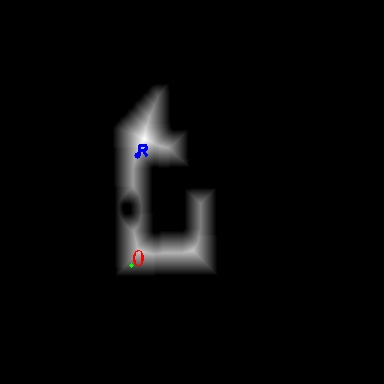
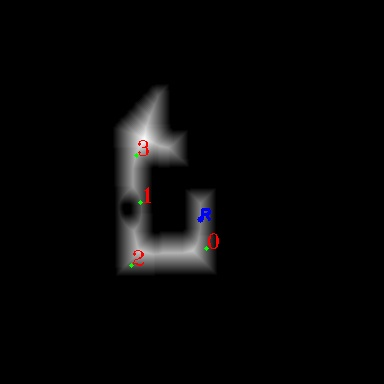
update

diff --git a/turtlebot3_67301/scripts/assignment_2.py b/turtlebot3_67301/scripts/assignment_2.py
@@ -12,7 +12,7 @@ import actionlib
 import json
 
 from move_base_msgs.msg import MoveBaseAction, MoveBaseGoal
-from nav_msgs.srv import GetMap
+from nav_msgs.srv import GetMap, GetPlan
 from nav_msgs.msg import Odometry, Path
 from std_msgs.msg import String
 from tf.transformations import euler_from_quaternion
@@ -185,7 +185,6 @@ def move(client, goal, degree, convert_to_map_coords=False):
     goal.target_pose.pose.orientation.y = 0
     goal.target_pose.pose.orientation.z = z
     goal.target_pose.pose.orientation.w = w
-
     client.send_goal(goal)
     wait = client.wait_for_result(rospy.Duration(60))
 
@@ -195,26 +194,28 @@ def move(client, goal, degree, convert_to_map_coords=False):
 #############################  C & C
 
 def get_agent_plan(start, end, agent_id=0):
+    rospy.loginfo('agent {} waiting for move_base/make_plan service...'.format(agent_id))
+    rospy.wait_for_service('/tb3_%d/move_base/make_plan' % agent_id, 30)
     get_plan = rospy.ServiceProxy('/tb3_%d/move_base/make_plan' % agent_id, GetPlan)
+    rospy.loginfo('agent {} got for move_base/make_plan service.'.format(agent_id))
     plan = GetPlan()
-    plan.start = my_start
-    plan.goal = item_goal
+    plan.start = start
+    plan.goal = end
     plan.tolerance = .5
-    res = get_plan(req.start, req.goal, req.tolerance)
-    print(plan)
+    res = get_plan(plan.start, plan.goal, plan.tolerance)
     myPath = len(res.plan.poses)
     return res.plan
 
-def get_pose_stamped(seq, frame_id, stamp, x, y)
+def get_pose_stamped(seq, frame_id, stamp, x, y):
     pose = PoseStamped()
-    pose.header.seq = 0
-    pose.header.frame_id = "/tb3_%d/map"%my_id
-    pose.header.stamp = rospy.Time(0)
-    pose.pose.position.x = ourLocation[0] 
-    pose.pose.position.y = ourLocation[1]
+    pose.header.seq = seq
+    pose.header.frame_id = frame_id
+    pose.header.stamp = stamp
+    pose.pose.position.x = x
+    pose.pose.position.y = y
     return pose
 
-def faster(agent_id):
+def dirt_ETAs(agent_id):
     global pub_dirt_list
     update_dirt_list()
     res = []
@@ -222,18 +223,19 @@ def faster(agent_id):
     agent_loc = get_agent_loc(agent_id)
     rival_loc = get_agent_loc(1-agent_id)
 
-    my_start = get_pose_stamped(0, "/tb3_%d/map" % agent_id, rospy.Time(0), agent_loc[0], agent_loc[1])
-    his_start = get_pose_stamped(0, "/tb3_%d/map" % agent_id, rospy.Time(0), agent_loc[0], agent_loc[1])
+    agent_start = get_pose_stamped(0, "/tb3_%d/map" % agent_id, rospy.Time(0), agent_loc[0], agent_loc[1])
+    rival_start = get_pose_stamped(0, "/tb3_%d/map" % agent_id, rospy.Time(0), rival_loc[0], rival_loc[1])
 
     for dirt_pos in pub_dirt_list:
         goal = get_pose_stamped(0, "/tb3_%d/map" % agent_id, rospy.Time(0), dirt_pos[0], dirt_pos[1])
 
-        resp = get_agent_plan(agent_id)
-        my_eta = len(resp.plan.poses)
+        plan = get_agent_plan(agent_start, goal, agent_id)
+        agent_eta = len(plan.poses)
 
-        resp = get_agent_plan(agent_id) #TODO
-        his_eta = len(resp.plan.poses)
-
+        plan = get_agent_plan(rival_start, goal, agent_id) #TODO
+        rival_eta = len(plan.poses)
+        
+        closer_agent = agent_id if rival_eta > agent_eta else 1-agent_id 
         res.append(closer_agent)
         map_[tuple(dirt_pos)] = closer_agent
 
@@ -284,16 +286,15 @@ def multi_move(x, y, agent_id=0):
         client.wait_for_server()
         move_base_clients[agent_id] = client
     move_base_client = move_base_clients[agent_id]
+    rospy.loginfo('agent {} heading to {}'.format(agent_id, (x, y)))
     move(move_base_client, (x, y), 0)
 
 def basic_cleaning(dirts_list, agent_id=0):
+    rospy.loginfo('agent {} started BASIC cleaning'.format(agent_id))
     sorted_dirts = sort_dirts(dirts_list, agent_id=agent_id)
     for g in sorted_dirts:
         x, y = g
         multi_move(x, y, agent_id)
-
-def rival_goal_callback(msg):
-    print(msg)
 
 def get_rival_goal(rival_id):
     try:
@@ -301,23 +302,27 @@ def get_rival_goal(rival_id):
         # channel = 'tb3_%d/move_base/DWAPlannerROS/global_plan' % rival_id
         # channel = 'tb3_%d/move_base/NavfnROS/plan' % rival_id
         channel = 'tb3_%d/move_base/DWAPlannerROS/global_plan' % rival_id
-        goal_msg = rospy.wait_for_message(channel, Path, 10)
-        rival_goal_msg = rospy.wait_for_message(channel, PoseStamped, 5)
-        
-        rival_goal = (rival_goal_msg.pose.position.x, rival_goal_msg.pose.position.y)
-        print(rival_goal_msg)
+        rival_goal_msg = rospy.wait_for_message(channel, Path, 10)
+        # rival_goal_msg = rospy.wait_for_message(channel, PoseStamped, 5)
+        dest = rival_goal_msg.poses[-1]
+        rival_goal = (dest.pose.position.x, dest.pose.position.y)
+        rospy.loginfo('agent {} got rival goal as {}'.format(1-rival_id, rival_goal))
+     
     except rospy.exceptions.ROSException as e:
-        print('setting trash as rival goal.')
-        print(e)
-        rival_goal = (-1, -1)
+        rospy.logerr(e)
+        rospy.logerr('agent {} setting trash rival goal.'.format(1-rival_id))
+        rival_goal = None
     return rival_goal
 
 def update_dirt_list():
     global pub_dirt_list
     msg = rospy.wait_for_message('dirt', String)
     try:
-        pub_dirt_list = json.loads(msg.data)
-        print("Recieved dirt list: {}".format(pub_dirt_list))
+        string = msg.data
+        string = string.replace('(', '[')
+        string = string.replace(')', ']')
+        pub_dirt_list = json.loads(string)
+        rospy.loginfo("Recieved dirt list: {}".format(pub_dirt_list))
     except Exception as e:
         print(e)
         print(msg)
@@ -325,12 +330,14 @@ def update_dirt_list():
     
 
 def competitive_cleaning(agent_id=0):
-    global robot_location, pub_dirt_list
+    global pub_dirt_list
+    rospy.loginfo('agent {} started COMPETITIVE cleaning'.format(agent_id))
     update_dirt_list()
     while len(pub_dirt_list):
         sorted_dirts = sort_dirts(pub_dirt_list, agent_id=agent_id)
         rival_sorted_dirts = sort_dirts(pub_dirt_list, agent_id=1-agent_id, annotate=False)
-        closer_dirts_ind, closer_dirt_map = closer_dirts(agent_id)
+        # closer_dirts_ind, closer_dirt_map = closer_dirts(agent_id)
+        closer_dirts_ind, closer_dirt_map = dirt_ETAs(agent_id)
         agent_1_stronger = sum(closer_dirts_ind) > len(pub_dirt_list) // 2
         im_weak = True if agent_id == 0 and agent_1_stronger else False
         his = mine = []
@@ -343,9 +350,9 @@ def competitive_cleaning(agent_id=0):
         goals = sort_dirts(mine, annotate=False, agent_id=agent_id) + sort_dirts(his, annotate=False, agent_id=agent_id)
         for g in goals:
             rival_goal = get_rival_goal(1-agent_id)
-            if distance_compute(g, np.array(rival_goal)) < 0.2 and closer_dirt_map[g] != agent_id:
+            if rival_goal and distance_compute(g, np.array(rival_goal)) < 0.5 and closer_dirt_map[(g[0], g[1])] != agent_id:
                 # skip an impossible goal
-                print('skipping impossible goal.')
+                rospy.loginfo('agent {} skipping impossible goal.'.format(agent_id))
                 continue
             x, y = g
             multi_move(x, y, agent_id)
@@ -357,8 +364,8 @@ def vacuum_cleaning(agent_id):
     global MAP_IMG_PATH, global_map, global_map_info, global_map_origin, TIMEOUT
     global rival_id, pub_dirt_list
 
-    # rospy.init_node('vacuum_cleaning_{}'.format(agent_id))
-
+    rospy.init_node('vacuum_cleaning_{}'.format(agent_id))
+    rospy.loginfo('agent {} started cleaning'.format(agent_id))
     
     global_map, global_map_info, global_map_origin, grid = get_map(agent_id)     
     map_img = map_to_img(global_map)
@@ -370,18 +377,20 @@ def vacuum_cleaning(agent_id):
 
     rival_id = 1-agent_id
 
-    update_dirt_list()
+    while len(pub_dirt_list) == 0:
+        update_dirt_list()
+        time.sleep(0.1)
 
     try:
-        agent_2_gs = pub_dirt_list
         
         # run rival
-        proc = Thread(target=basic_cleaning, args=(agent_2_gs, rival_id))
-        proc.start()
+        # agent_2_gs = pub_dirt_list
+        # proc = Thread(target=basic_cleaning, args=(agent_2_gs, rival_id))
+        # proc.start()
 
         competitive_cleaning(agent_id)
         
-        proc.join()
+        # proc.join()
 
 
 
@@ -401,7 +410,7 @@ def inspection():
 if __name__ == '__main__':
 
     # Initializes a rospy node to let the SimpleActionClient publish and subscribe
-    rospy.init_node('assignment_2')
+    # rospy.init_node('assignment_2')
 
     exec_mode = sys.argv[1] 
     print('exec_mode:' + exec_mode)        
